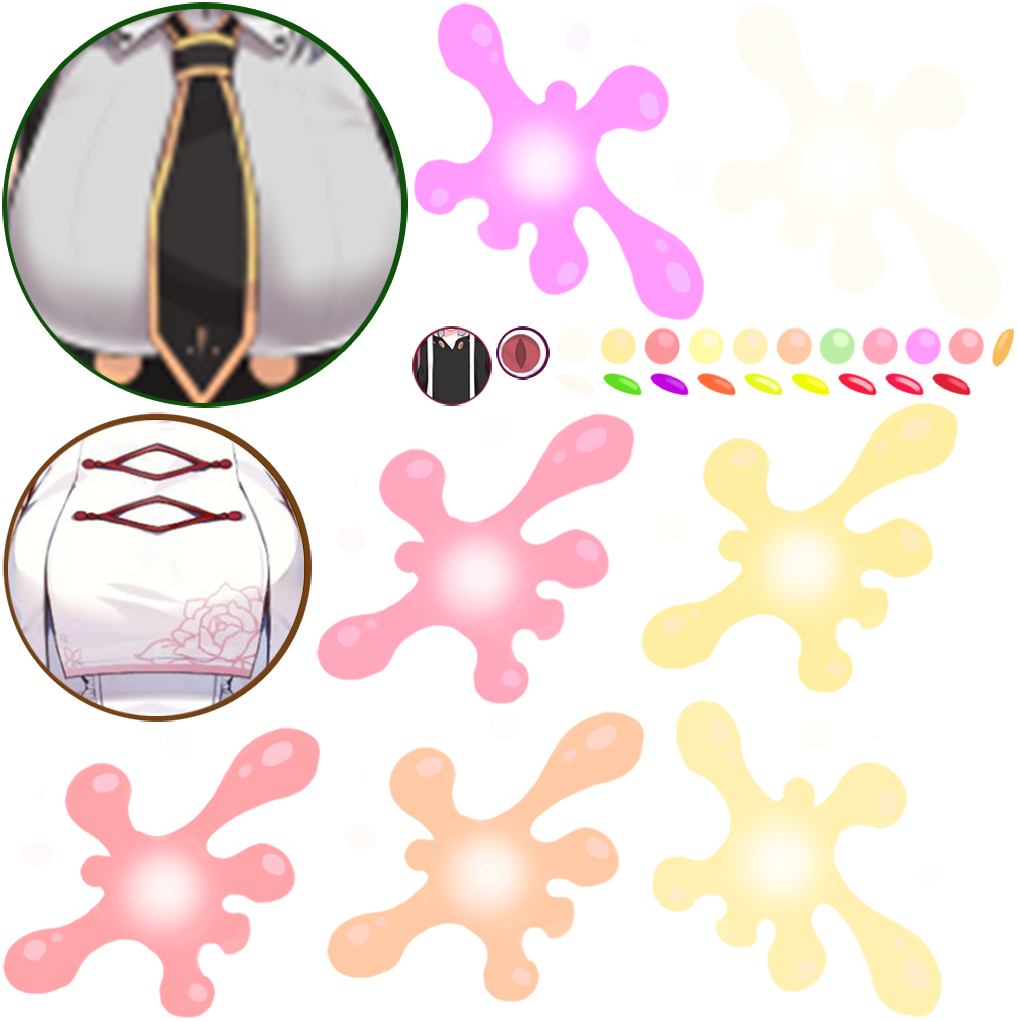
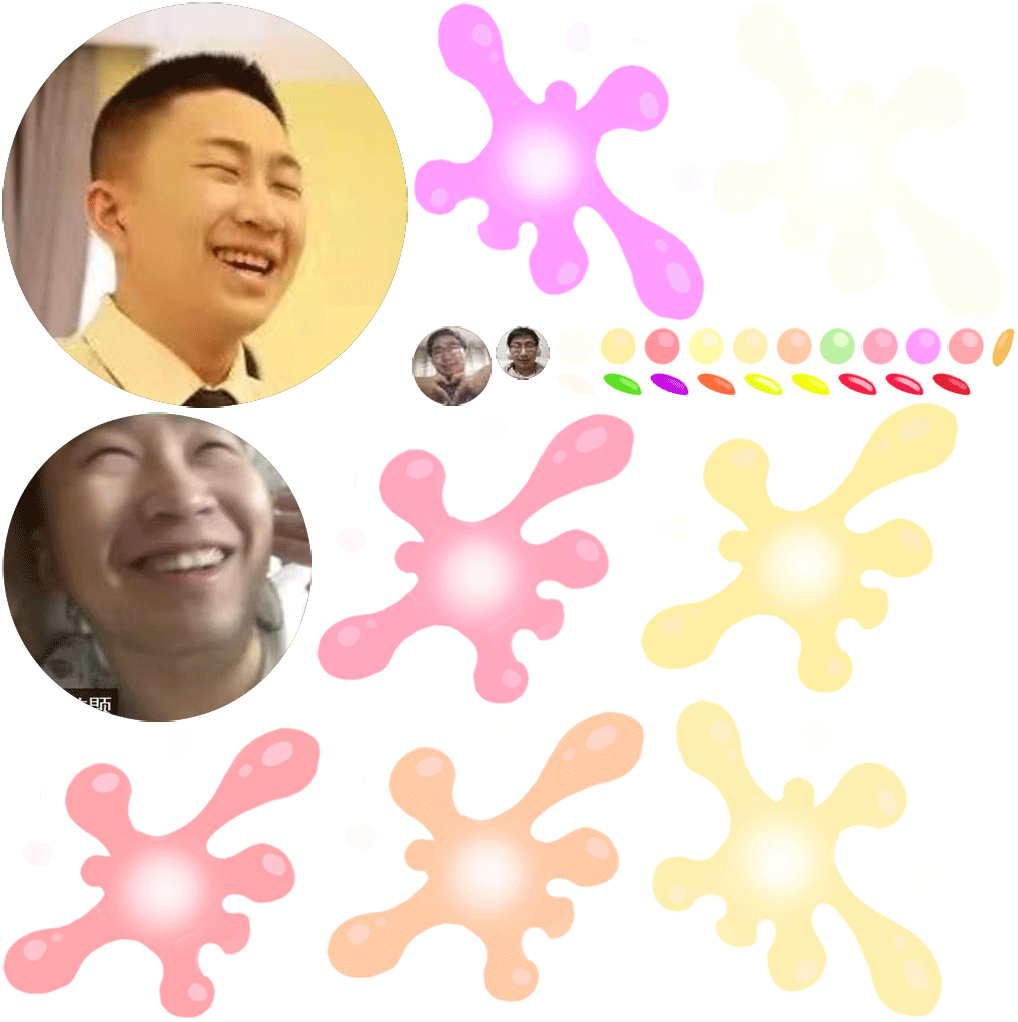
2021/02/01

Changed region(s): [[0.0, 0.0, 0.4263, 0.728], [0.3959, 0.3033, 0.5481, 0.3943], [0.6395, 0.364, 0.6699, 0.3943]]

diff --git a/index.html b/index.html
@@ -4,7 +4,7 @@
 <head>
     <meta charset="utf-8">
 
-    <title>合成大欧派</title>
+    <title>合成大皮皮</title>
 
     <!--http://www.html5rocks.com/en/mobile/mobifying/-->
     <meta name="viewport" content="width=device-width,user-scalable=no,initial-scale=1, minimum-scale=1,maximum-scale=1" />
@@ -109,7 +109,7 @@
             //        console.log("window.navigator.language",window.navigator.language);
 
             if (window.navigator.language == "zh-CN" || window.navigator.language == "zh-cn") {
-                document.title = "合成大欧派";
+                document.title = "合成大皮皮";
             } 
 
 
